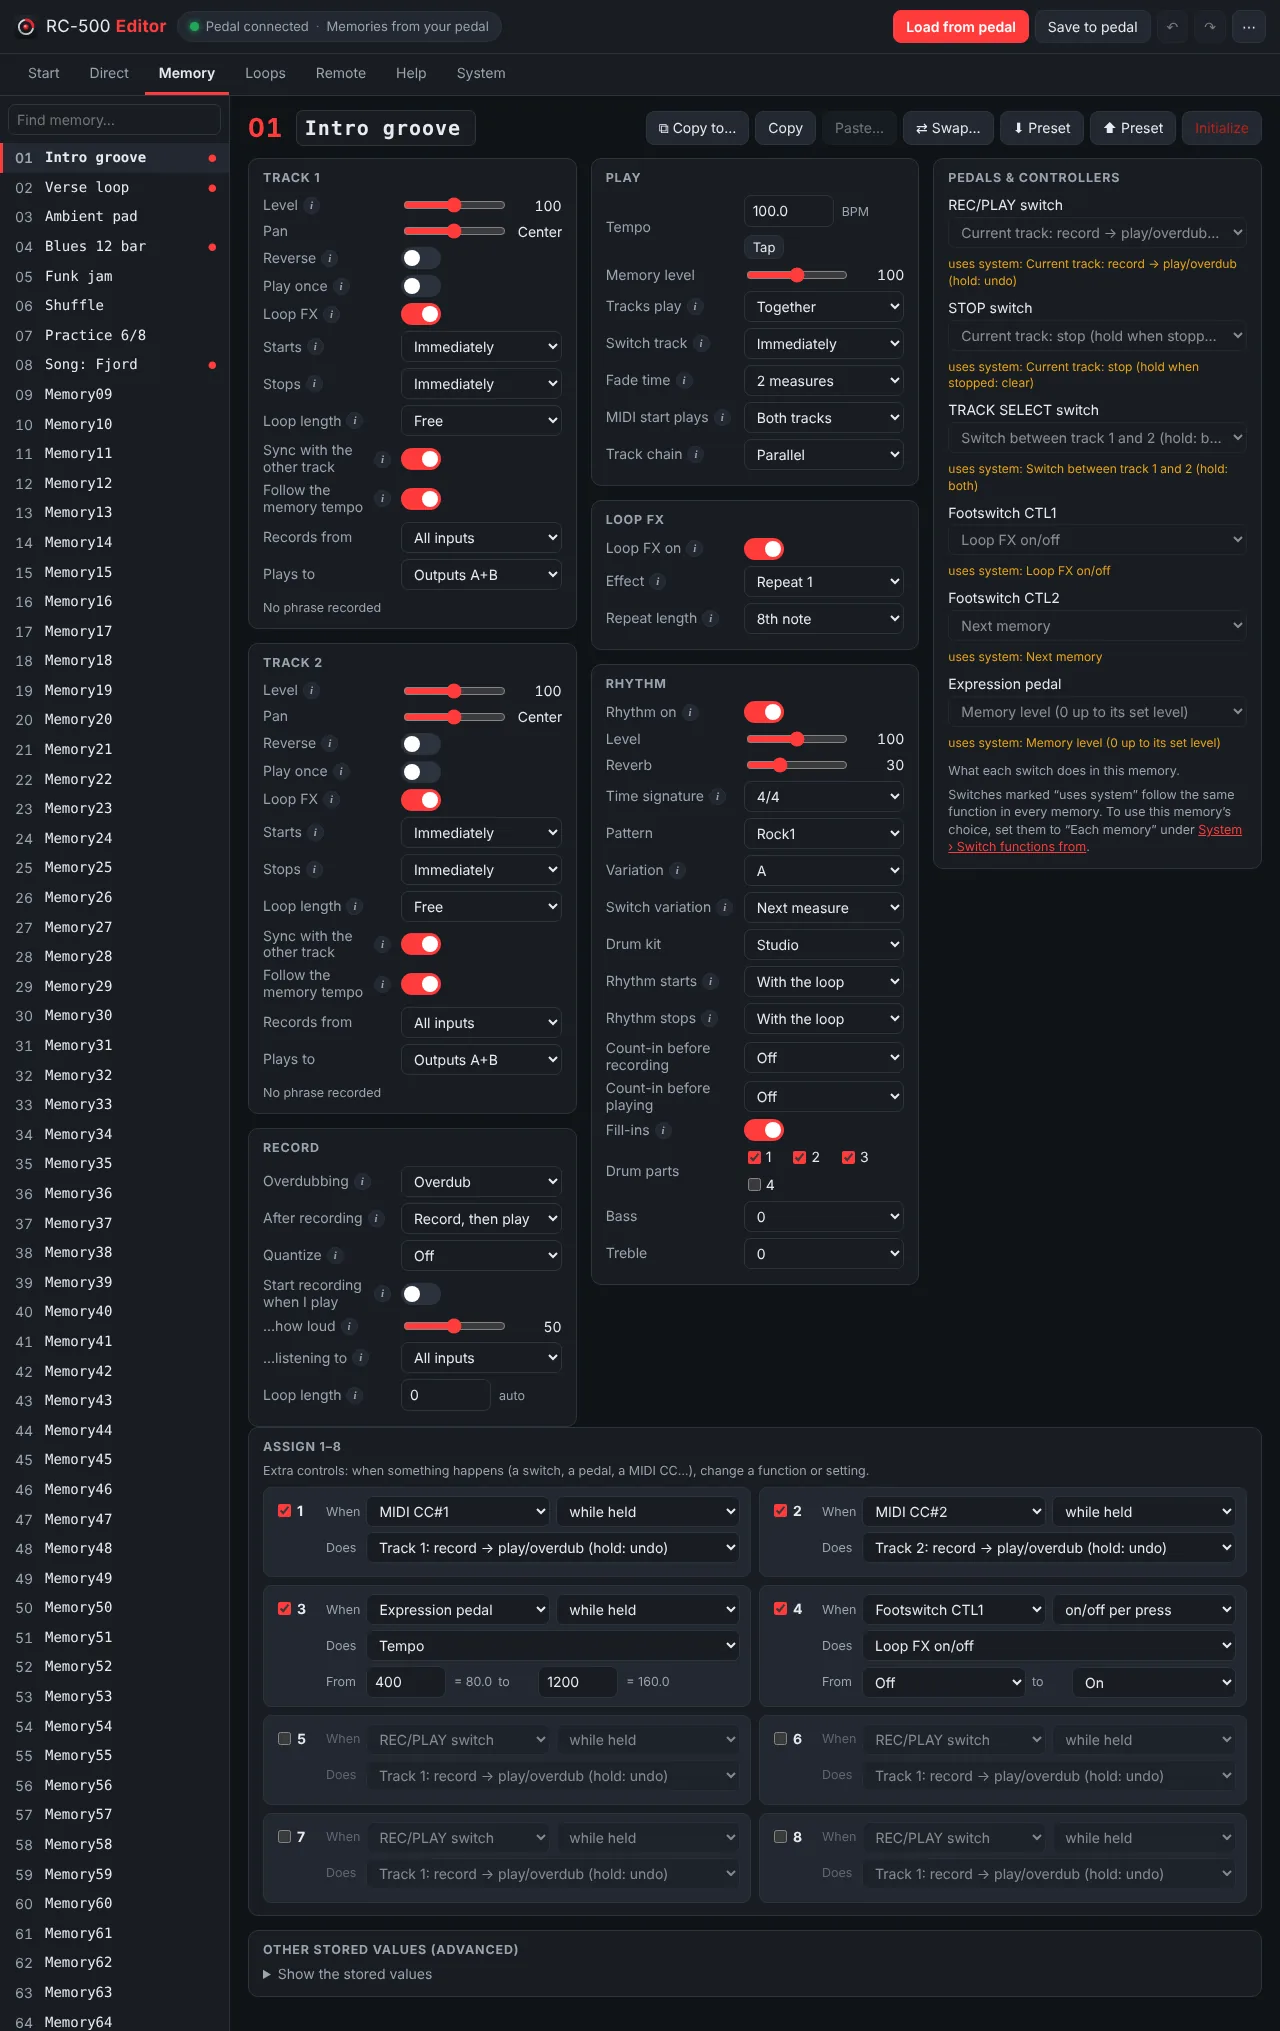
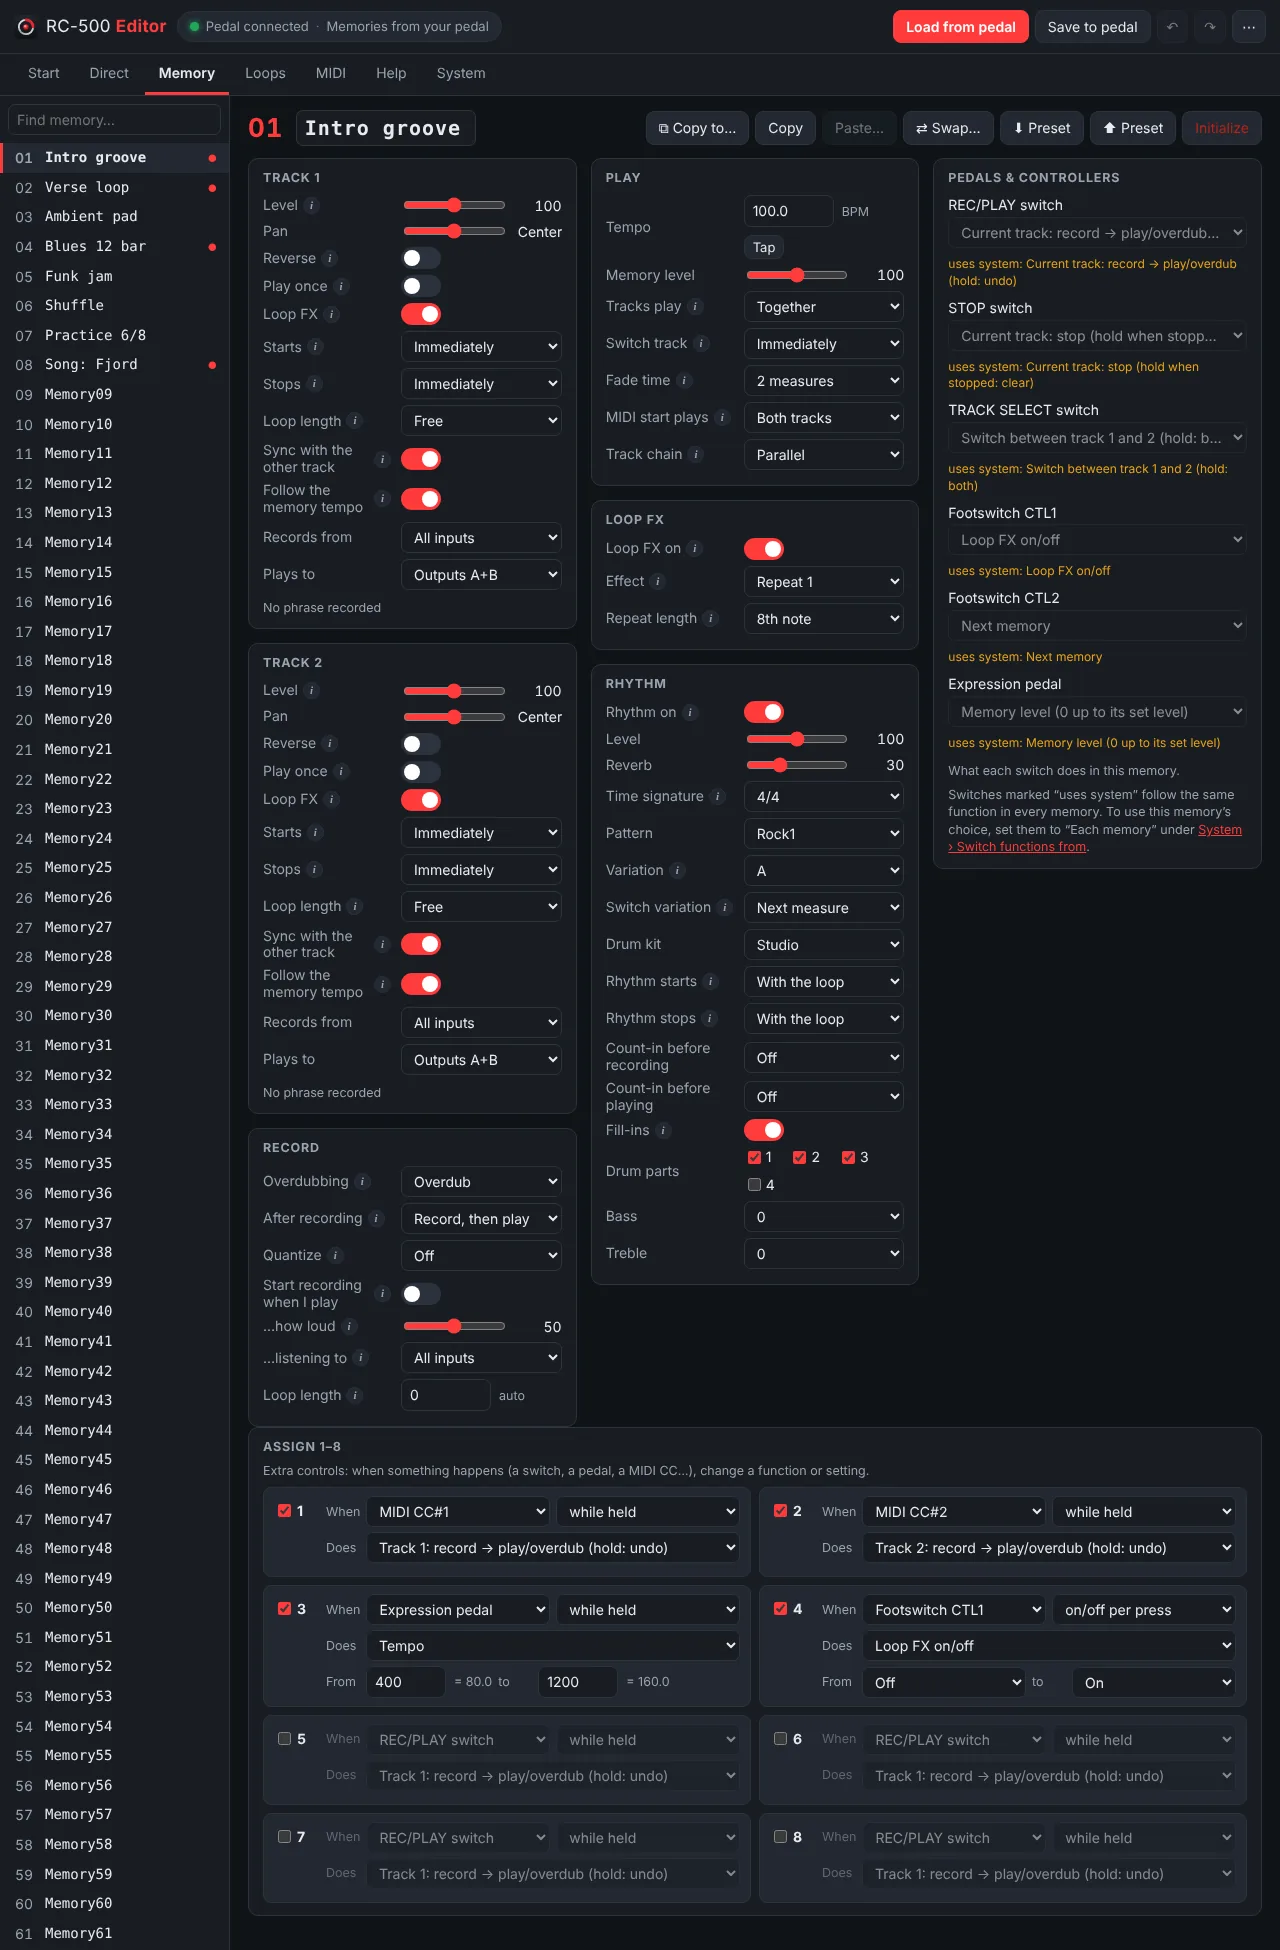
Rename Remote to MIDI; tidier ⋯ menu

diff --git a/web/js/app.js b/web/js/app.js
@@ -6,7 +6,7 @@
   'use strict';
 
   var P = window.RC500P, L = P.L, RC0 = window.RC0, PF = window.RCPlatform, AU = window.RCAudio;
-  var VERSION = '2.10';
+  var VERSION = '2.11';
 
   // ------------------------------------------------------------------ state
   var S = {
@@ -228,22 +228,29 @@
 
   function moreMenu() {
     var t = localStorage.getItem('rc500-theme') || 'auto';
-    popMenu($('btnMore'), [
+    var next = { auto: 'light', light: 'dark', dark: 'auto' }[t];
+    var cap = function (x) { return x.charAt(0).toUpperCase() + x.slice(1); };
+    // Undo/redo, MIDI and Help have their own buttons/tabs on a wide screen; on a phone they live here.
+    var narrow = window.matchMedia('(max-width: 819px)').matches;
+    var items = [];
+    if (narrow) items.push(
       { label: '↶ Undo', disabled: !S.undo.length, onclick: function () { undoRedo(S.undo, S.redo, true); } },
       { label: '↷ Redo', disabled: !S.redo.length, onclick: function () { undoRedo(S.redo, S.undo, false); } },
-      null,
-      { label: '⇄ Remote control', onclick: function () { go('remote'); } },
-      { label: '? Help', onclick: function () { go('about'); } },
-      null,
-      { label: '📁 Open a folder or backup…', onclick: openFolder },
-      { label: '⬇ Backup of the pedal’s data', disabled: !S.store, onclick: function () { backup().catch(errToast); } },
+      null);
+    items.push(
+      { label: '⬇ Back up the pedal’s data', disabled: !S.store, onclick: function () { backup().catch(errToast); } },
+      { label: '📁 Open a backup or folder…', onclick: openFolder },
       { label: '🏭 Start from factory settings', onclick: openFactory },
-      { label: '🔍 Show stored values', onclick: storedValuesDialog },
       null,
-      { label: 'Theme: ' + t + ' → ' + ({ auto: 'light', light: 'dark', dark: 'auto' })[t], onclick: function () {
-        try { localStorage.setItem('rc500-theme', ({ auto: 'light', light: 'dark', dark: 'auto' })[t]); } catch (e) { } applyTheme();
-      } }
-    ]);
+      { label: '🔍 Show stored values', onclick: storedValuesDialog });
+    if (narrow) items.push(
+      { label: '⇄ MIDI', onclick: function () { go('remote'); } },
+      { label: '? Help', onclick: function () { go('about'); } });
+    items.push(null,
+      { label: '◐ Theme: ' + cap(t) + ' (switch to ' + next + ')', onclick: function () {
+        try { localStorage.setItem('rc500-theme', next); } catch (e) { } applyTheme();
+      } });
+    popMenu($('btnMore'), items);
   }
   function go(p) { S.page = p; try { localStorage.setItem('rc500-page', p); } catch (e) { } render(); window.scrollTo(0, 0); }
 
@@ -804,7 +811,7 @@
       var target = L.assignTarget[mget('ASSIGN' + a, 'Target')];
       ccRows.push(ccPad(cc, RCNames.plain(target) + (mget('ASSIGN' + a, 'Sw') ? '' : ' (assign off)'), mget('ASSIGN' + a, 'SourceMode')));
     }
-    return [h('div', { class: 'memhead' }, h('div', { class: 'memtitle' }, h('span', { class: 'big' }, 'REMOTE')),
+    return [h('div', { class: 'memhead' }, h('div', { class: 'memtitle' }, h('span', { class: 'big' }, 'MIDI')),
       h('div', { class: 'tools' }, connected
         ? h('button', { onclick: function () { S.midi.disconnect(); render(); } }, 'Disconnect')
         : h('button', { class: 'primary', onclick: connectMidi }, 'Connect over USB MIDI'))),
@@ -936,7 +943,7 @@
     return h('div', { class: 'about' },
       h('h2', null, 'BOSS RC-500 Editor ' + VERSION),
       h('p', null, 'Edit every memory and system setting of the BOSS RC-500 Loop Station, manage its recorded loops and control it live — all through the pedal’s USB port.'),
-      h('p', { class: 'warnnote' }, 'Experimental: being tested on a real pedal. Make a backup before you save (⋯ › Backup of the pedal’s data).'),
+      h('p', { class: 'warnnote' }, 'Experimental: being tested on a real pedal. Make a backup before you save (⋯ › Back up the pedal’s data).'),
       h('h3', null, 'Getting started'),
       h('ol', null,
         h('li', null, 'Power the RC-500 (adapter or batteries, with a cable in OUTPUT A/MONO — that jack is its power switch) and connect it with a USB cable that carries data (on a phone: USB-C/OTG).'),
@@ -952,7 +959,7 @@
       h('h3', null, 'Your browser'),
       h('ul', null,
         h('li', null, 'Write directly to the pedal: ', fsa || PF.isAndroid ? '✅' : '❌ (Firefox/Safari can only read the folder; saving downloads the files)'),
-        h('li', null, 'USB MIDI (Direct, Remote, automatic storage mode): ', navigator.requestMIDIAccess || PF.isAndroid ? '✅' : '❌'),
+        h('li', null, 'USB MIDI (Direct, MIDI page, automatic storage mode): ', navigator.requestMIDIAccess || PF.isAndroid ? '✅' : '❌'),
         h('li', null, 'Secure page (needed for both): ', window.isSecureContext ? '✅' : '❌ open the https version')),
       h('h3', null, 'Good to know'),
       h('ul', null,

diff --git a/web/index.html b/web/index.html
@@ -11,12 +11,12 @@
 <meta name="description" content="Editor for the BOSS RC-500 Loop Station over its USB port: memories, system settings, loops and live MIDI control.">
 <meta name="theme-color" content="#14171c">
 <title>RC-500 Editor</title>
-<link rel="icon" href="icon.svg?v=2.10" type="image/svg+xml">
-<link rel="stylesheet" href="css/style.css?v=2.10">
+<link rel="icon" href="icon.svg?v=2.11" type="image/svg+xml">
+<link rel="stylesheet" href="css/style.css?v=2.11">
 </head>
 <body>
 <header class="top">
-  <div class="brand"><img src="icon.svg?v=2.10" width="24" height="24" alt="" class="appicon">
+  <div class="brand"><img src="icon.svg?v=2.11" width="24" height="24" alt="" class="appicon">
     <span class="only-wide">RC-500 <b>Editor</b></span></div>
   <button id="memPick" class="mempick only-narrow" aria-label="Choose memory"></button>
   <button id="status" class="status" title="Connection and data — click for the Start page"></button>
@@ -34,7 +34,7 @@
   <button data-page="direct"><span class="ti">◉</span><span>Direct</span></button>
   <button data-page="memory"><span class="ti">☰</span><span>Memory</span></button>
   <button data-page="loops"><span class="ti">∞</span><span>Loops</span></button>
-  <button data-page="remote" class="only-wide"><span class="ti">⇄</span><span>Remote</span></button>
+  <button data-page="remote" class="only-wide"><span class="ti">⇄</span><span>MIDI</span></button>
   <button data-page="about" class="only-wide"><span class="ti">?</span><span>Help</span></button>
   <button data-page="system"><span class="ti">⚙</span><span>System</span></button>
 </nav>
@@ -48,13 +48,13 @@
 </div>
 <input id="dirinput" type="file" webkitdirectory directory multiple hidden>
 <div id="toasts"></div>
-<script src="js/factory.js?v=2.10"></script>
-<script src="js/rc0.js?v=2.10"></script>
-<script src="js/params.js?v=2.10"></script>
-<script src="js/audio.js?v=2.10"></script>
-<script src="js/platform.js?v=2.10"></script>
-<script src="js/names.js?v=2.10"></script>
-<script src="js/direct.js?v=2.10"></script>
-<script src="js/app.js?v=2.10"></script>
+<script src="js/factory.js?v=2.11"></script>
+<script src="js/rc0.js?v=2.11"></script>
+<script src="js/params.js?v=2.11"></script>
+<script src="js/audio.js?v=2.11"></script>
+<script src="js/platform.js?v=2.11"></script>
+<script src="js/names.js?v=2.11"></script>
+<script src="js/direct.js?v=2.11"></script>
+<script src="js/app.js?v=2.11"></script>
 </body>
 </html>

diff --git a/README.md b/README.md
@@ -15,7 +15,7 @@ no BOSS TONE STUDIO needed. Use it in the browser or as a standalone Android app
   <img src="docs/memory.webp" width="380" alt="Editing a memory, including ASSIGN 1–8">
   <img src="docs/system.webp" width="380" alt="System settings">
   <img src="docs/loops.webp" width="380" alt="Loops: play, export and import">
-  <img src="docs/remote.webp" width="380" alt="Remote over USB MIDI">
+  <img src="docs/remote.webp" width="380" alt="MIDI page">
 </p>
 <p align="center">
   <img src="docs/phone-start.webp" width="220" alt="Start page on a phone">
@@ -23,7 +23,7 @@ no BOSS TONE STUDIO needed. Use it in the browser or as a standalone Android app
   <img src="docs/phone-memory.webp" width="220" alt="Editing on a phone">
 </p>
 
-> ⚠ **Experimental – being tested on a real pedal.** Make a backup (⋯ › Backup of the pedal’s data) before you
+> ⚠ **Experimental – being tested on a real pedal.** Make a backup (⋯ › Back up the pedal’s data) before you
 > save to the pedal. Not affiliated with BOSS/Roland.
 
 ## Features
@@ -49,7 +49,7 @@ no BOSS TONE STUDIO needed. Use it in the browser or as a standalone Android app
 - Presets: save a memory as a `.rc500.json` file and load it into any memory
 - **Loops**: see which memories have recorded phrases, play them, export them as WAV, import any audio file
   (WAV/MP3/M4A … converted to the RC-500 format, 44.1 kHz 32-bit float stereo) or delete them
-- **Remote over USB MIDI**: switch memories (program change), start/stop, play the CC numbers used by the memory's
+- **MIDI page**: switch memories (program change), start/stop, play the CC numbers used by the memory's
   ASSIGNs (button + value slider), MIDI monitor, follow the pedal's memory changes
 - **Storage mode from the app**: the same SysEx that BOSS TONE STUDIO for RC sends turns the pedal's USB drive on/off,
   so you don't have to go through MENU › STORAGE on the pedal
